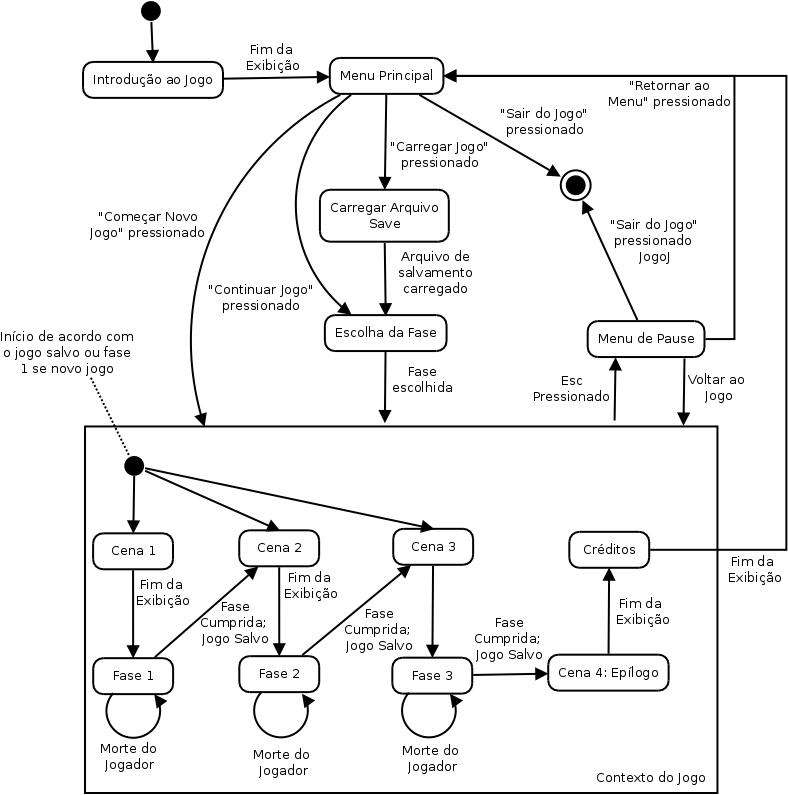
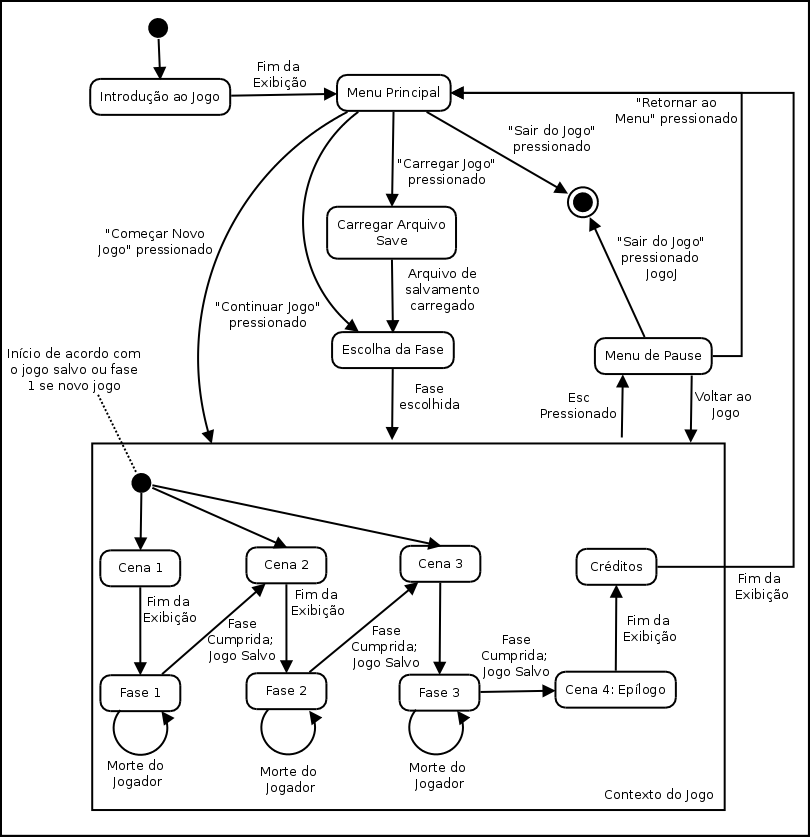
Fluxo do jogo finalizado

Changed region(s): [[0.0, 0.0, 1.0, 1.0], [0.9746, 0.0, 1.0, 0.0302], [0.0, 0.0, 0.0305, 0.0302]]

diff --git a/fluxodojogo.tex b/fluxodojogo.tex
@@ -11,7 +11,7 @@ Para a correta representação dos elementos que compõe o jogo um diagrama de m
  \label{img:fluxo_jogo}
 \end{figure}
 
-Ao iniciar o aplicativo, o jogo tem início com a introdução e, logo após, passa o controle da interação ao menu principal. Neste menu, são previstas três opções: ``Começar um Novo Jogo'', ``Carregar Jogo'' e ``Sair''. ``Sair'' leva o personagem ao estado final do diagrama de máquina de estados, encerrando assim o aplicativo. ``Carregar Jogo'' permite ao jogador escolher um jogo salvo e passa, logo após, o controle à escolha das fases disponíveis no perfil carregado. ``Começar um Novo Jogo'' inicia uma nova campanha, onde o jogador é levado a assistir a cena 1, pela qual o enredo é apresentado. Após finalização desta, tem início à primeira fase. Com o decorrer do jogo,  diversas cenas e fases são alcançadas no caso de sucesso do usuário ao  cumprir os objetivos estabelecidos. Com a devida concretização da terceira fase, o epílogo e os créditos são apresentados, os quais devolvem, após finalizados, a interação ao controle do menu principal. Durante o jogo, com a eventual morte do personagem principal, o mesmo é levado ao último \textit{checkpoint} registrado. No caso da tecla Esc ser pressionada, a interação é pausada e, neste ponto, é possível retornar ao jogo, voltar ao menu principal ou sair para o ambiente de trabalho, finalizando assim o aplicativo.
+Ao iniciar o aplicativo, o jogo tem início com a introdução e, logo após, passa o controle da interação ao menu principal. Neste menu, são previstas 4 opções: ``Começar um Novo Jogo'', ``Carregar Jogo'', ``Continuar Jogo'' e ``Sair''. ``Sair'' leva o personagem ao estado final do diagrama de máquina de estados, encerrando assim o aplicativo. ``Carregar Jogo'' permite ao jogador escolher um jogo salvo e passa, logo após, o controle à escolha das fases disponíveis no perfil carregado. ``Continuar jogo permite ao jogador continuar a campanha do último perfil jogado. ``Começar um Novo Jogo'' inicia uma nova campanha, onde o jogador é levado a assistir a cena 1, pela qual o enredo é apresentado. Após finalização desta, tem início à primeira fase. Com o decorrer do jogo,  diversas cenas e fases são alcançadas no caso de sucesso do usuário ao  cumprir os objetivos estabelecidos. Com a devida concretização da terceira fase, o epílogo e os créditos são apresentados, os quais devolvem, após finalizados, a interação ao controle do menu principal. Durante o jogo, com a eventual morte do personagem principal, o mesmo é levado ao último \textit{checkpoint} registrado. No caso da tecla Esc ser pressionada, a interação é pausada e, neste ponto, é possível retornar ao jogo, voltar ao menu principal ou sair para o ambiente de trabalho, finalizando assim o aplicativo.
 
 No que diz respeito aos elementos contidos no fluxo do jogo representado pelo diagrama, os mesmos são elicitados e discutidos abaixo:
 \begin{itemize}
@@ -19,6 +19,7 @@ No que diz respeito aos elementos contidos no fluxo do jogo representado pelo di
 \item \textit{Menu Principal:} o menu principal é o local onde são agrupados comandos que fornecem o ponto de partida ao jogo, com ações tais como "Começar um Novo Jogo" e "Carregar Jogo". É também o local onde o jogador é levado logo após a introdução inicial descrita acima;
 \item \textit{Começar Novo Jogo:} opção do menu principal cujo acionamento leva o jogador à primeira etapa do contexto do jogo, o tutorial de aprendizado inicial. Ao escolher esta opção, o jogo se inicia;
 \item \textit{Carregar Jogo:} opção do menu principal cujo acionamento possibilita ao jogador a escolher um jogo salvo. Esta opção permite ao jogador continuar uma ação interrompida em interações passadas;
+\item \texteit{Continuar Jogo:} opção do menu principal cujo acionamento possibilita ao jogador continuar o jogo do último perfil utilizado;
 \item \textit{Escolher Fase:} etapa de escolha de fase desejada, a qual torna-se disponível após a escolha do jogo salvo. Por meio dela é possível escolher dentre as fases já completadas que estiverem contidas dentro de um arquivo de jogo salvo;
 \item \textit{Sair do Jogo:} opção presente tanto no menu principal, quanto no secundário, de \textit{pause}, a qual, em caso de acionamento, leva o jogador de volta ao ambiente de sua área de trabalho do sistema operacional, encerrando assim a execução do jogo;
 \item \textit{Menu de Pause:} menu passível de ser acionado no evento de pressionar a tecla Esc do teclado. Sua função é manter o jogo pausado para posterior retorno ao contexto do jogo, se assim desejado pelo jogador. Outras opções são sair para o ambiente de trabalho e retornar ao menu principal;
